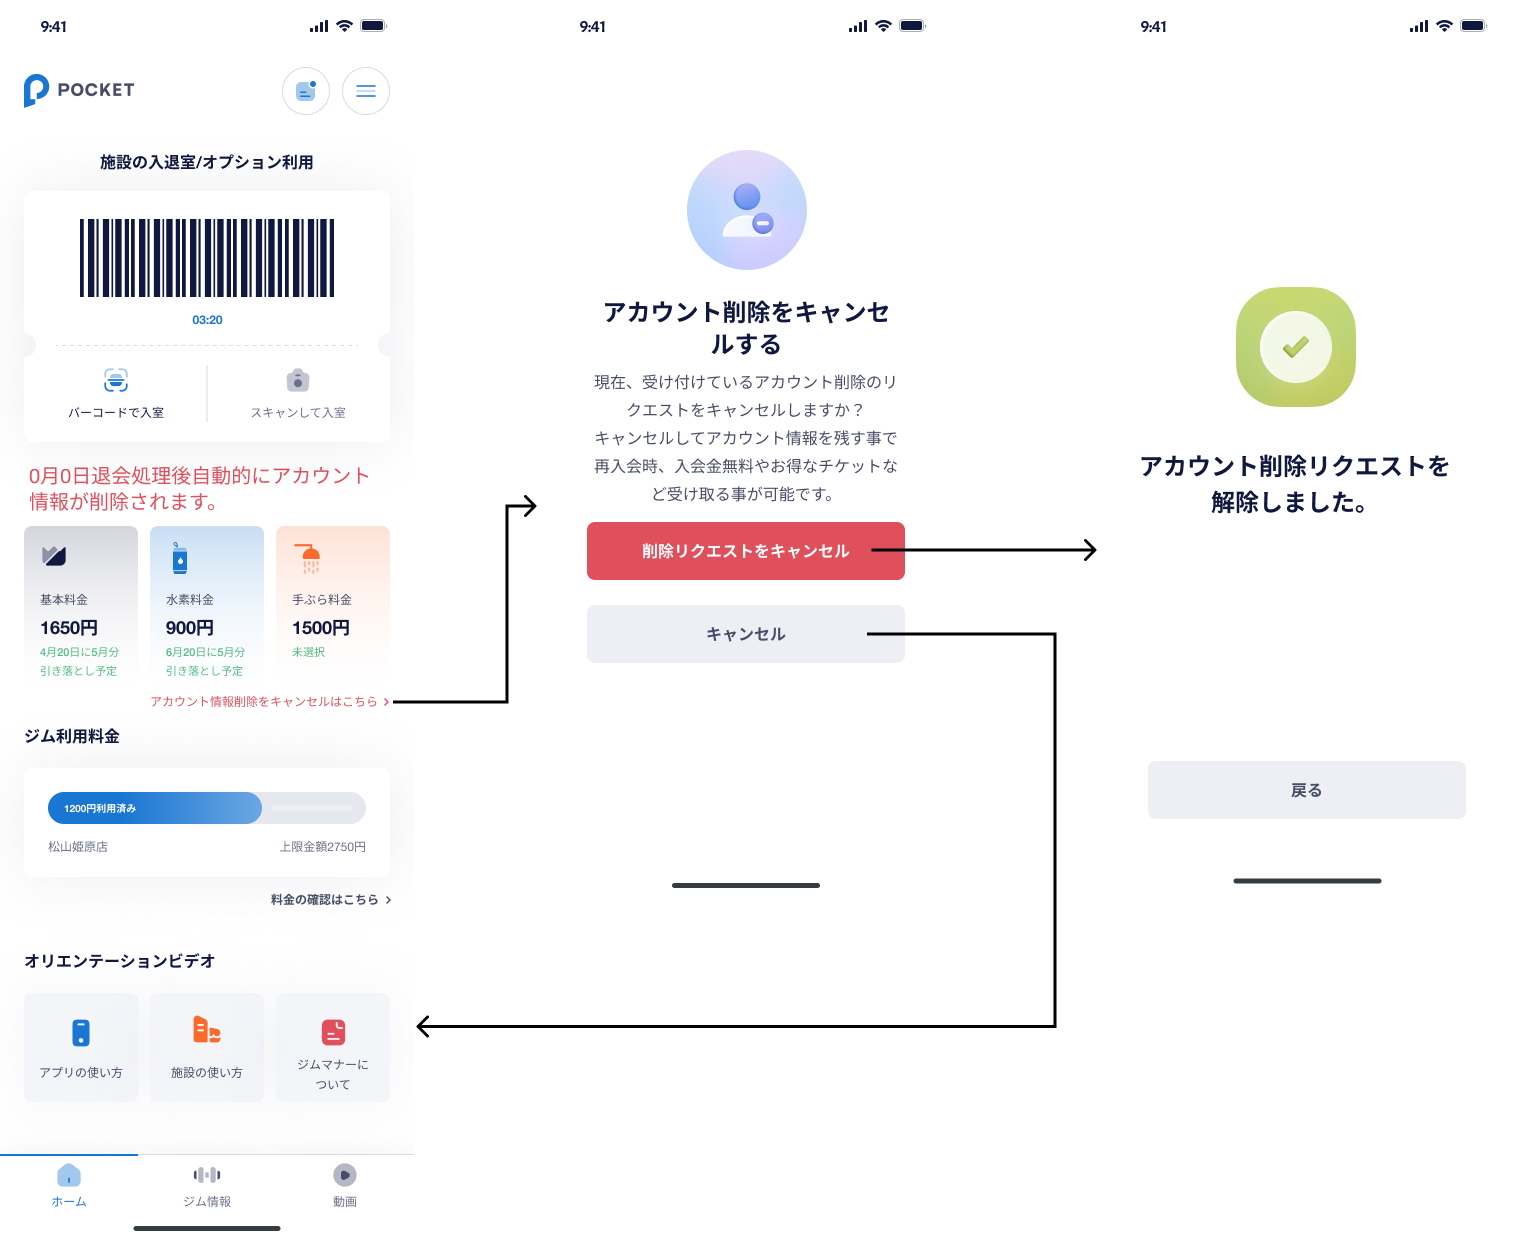
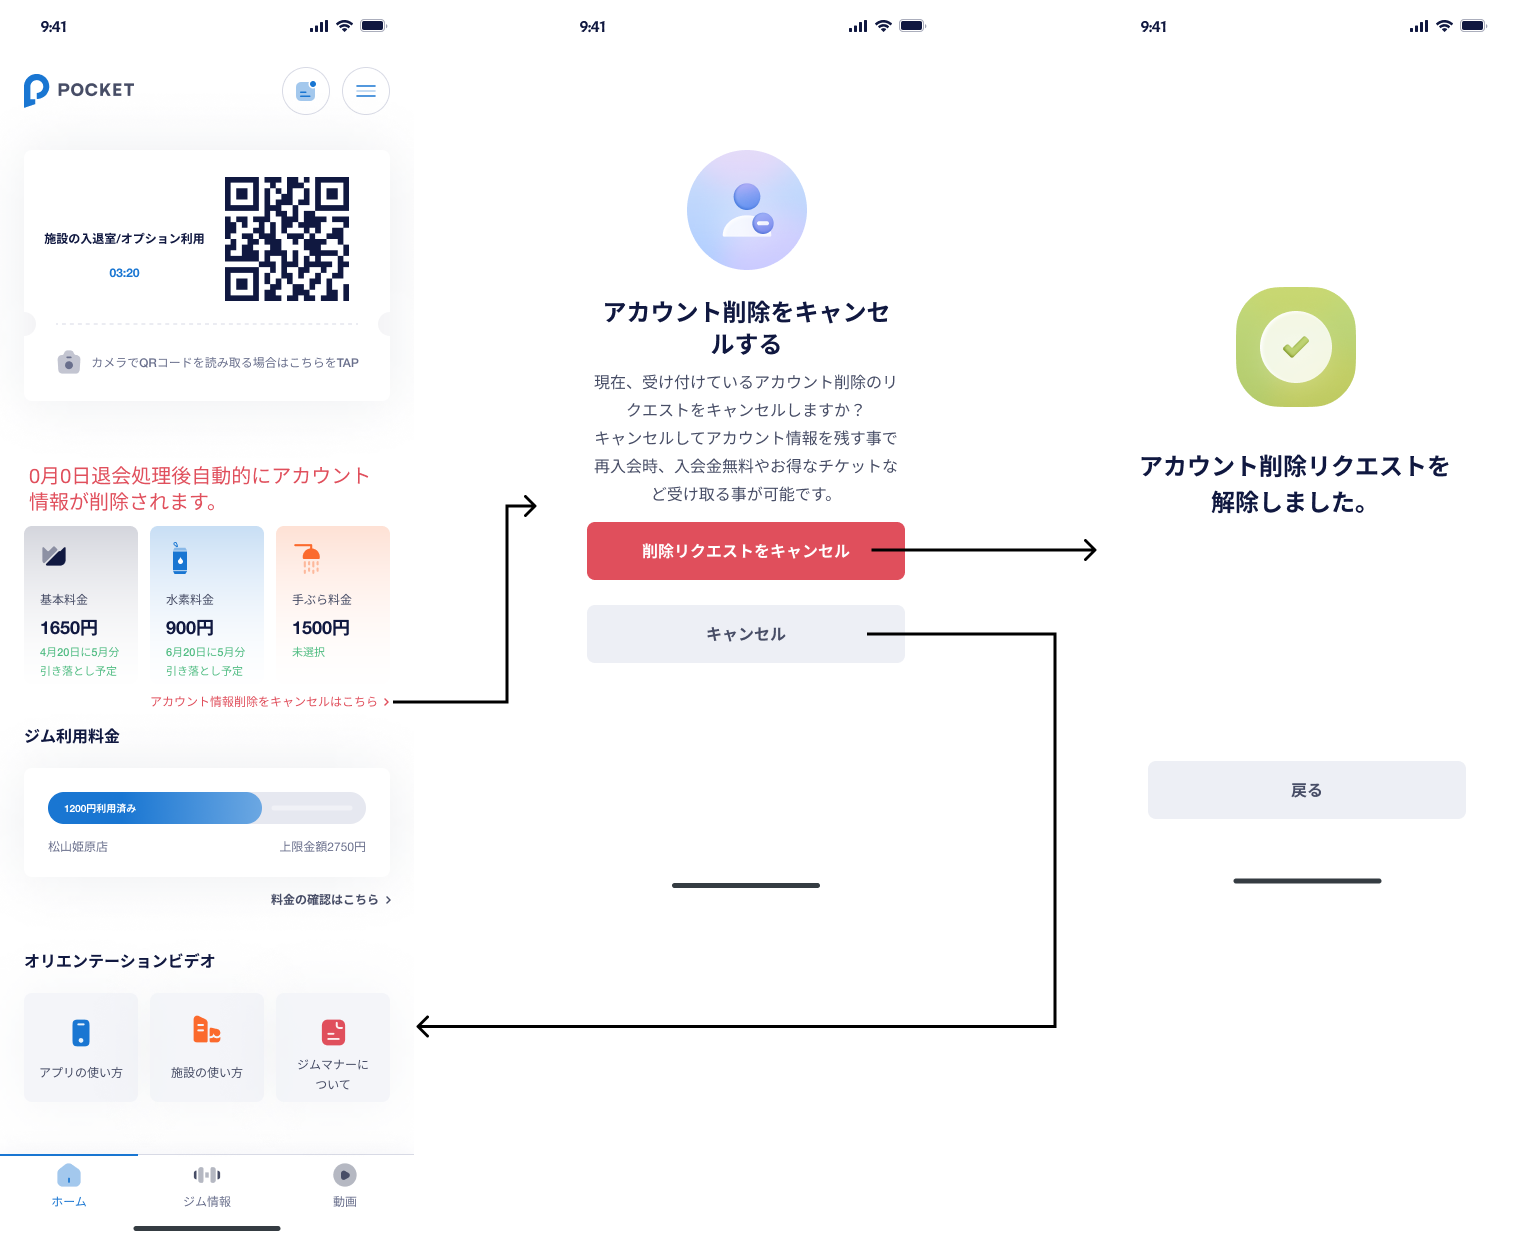
update barcode to qr code

Changed region(s): [[0.031, 0.1227, 0.2483, 0.3374]]

diff --git a/105-vn.md b/105-vn.md
@@ -58,7 +58,7 @@
 
 ## Màn hình **Home** 
 
-![nf](image/jp/mb/102mypage/Home.png)
+![nf](image/jp/mb/102mypage/Home-vn.png)
 
 ### Định nghĩa các thành phần có Action 
 
@@ -74,14 +74,10 @@
 
 ![nf](image/jp/mb/102mypage/bar-code.png)
 
-- Khi vào màn hình **Home**, thì barcode của user sẽ được tạo và hiển thị. Thời hạn hiệu lực của barcode là 5 phút, và sau khi hết thời gian thì barcode sẽ được tự động tạo lại. 
-- User dùng app `Gate Keeper` đọc barcode để sử dụng các dịch vụ mà Pocket cung cấp.
+- Khi vào màn hình **Home**, thì QR code của user sẽ được tạo và hiển thị. Thời hạn hiệu lực của QR code là 5 phút, và sau khi hết thời gian thì QR code sẽ được tự động tạo lại. 
+- User dùng app `Gate Keeper` đọc QR code để sử dụng các dịch vụ mà Pocket cung cấp.
 
-##### バーコードで入室 `Button`
-
-- Disabled button
-
-##### スキャンして入室   `Button`
+##### カメラでQRコードを読み取る場合はこちらをTAP   `Button`
 
 - Khi tap vào nút này,
     - Nếu device đã có quyền camera thì di chuyển qua màn hình **Quét mã QR** . Tham khảo trang  **Check-in** 

diff --git a/102-jp.md b/102-jp.md
@@ -2,7 +2,7 @@
 
 ![nf](image/jp/mb/101member/re-register.png)
 
-- 退会済以降、ユーザーがアプリを開くと、再入会のポップアップが表示される。また **ホーム** 画面の`スキャンして入室`ボタンをタップしたら、再入会のポップアップも表示される。
+- 退会済以降、ユーザーがアプリを開くと、再入会のポップアップが表示される。また **ホーム** 画面の`カメラでQRコードを読み取る場合はこちらをTAP`ボタンをタップしたら、再入会のポップアップも表示される。
     - `プラン契約へすすむ`ボタンをタップしたら、
         - デバイスに位置情報の許可が付与されている場合は、 **店舗選択** 画面に移動される。 **会員登録** ページに参考
         - デバイスに位置情報の許可が付与されない場合は、位置情報の許可をリクエストするポップアップが表示される。`許可する`ボタンまた`許可しない`ボタンをタップしたら、 **店舗選択** 画面に移動される。 **会員登録** ページに参考

diff --git a/102-vn.md b/102-vn.md
@@ -2,7 +2,7 @@
 
 ![nf](image/jp/mb/101member/re-register.png)
 
-- Sau khi user unsubscribe và hết thời hạn sử dụng basic plan, thì mỗi lần mở app sẽ hiện pop-up đăng kí lại. Hoặc ở màn hình **Home** nếu user tap vào nút `スキャンして入室` thì cũng sẽ hiện pop-up đăng kí lại.
+- Sau khi user unsubscribe và hết thời hạn sử dụng basic plan, thì mỗi lần mở app sẽ hiện pop-up đăng kí lại. Hoặc ở màn hình **Home** nếu user tap vào nút `カメラでQRコードを読み取る場合はこちらをTAP` thì cũng sẽ hiện pop-up đăng kí lại.
     - Khi tap nút `プラン契約へすすむ`,
         - Nếu device đã có quyền truy cập vị trí thì redirect qua màn hình **店舗選択** . Tham khảo trang **会員登録** 
         - Nếu device chưa có quyền truy cập vị trí thì hiển thị pop-up xin quyền truy cập vị trí. tap vào nút `許可する` hoặc nút `許可しない` thì đều redirect qua màn hình **店舗選択** . Tham khảo trang **会員登録** 
